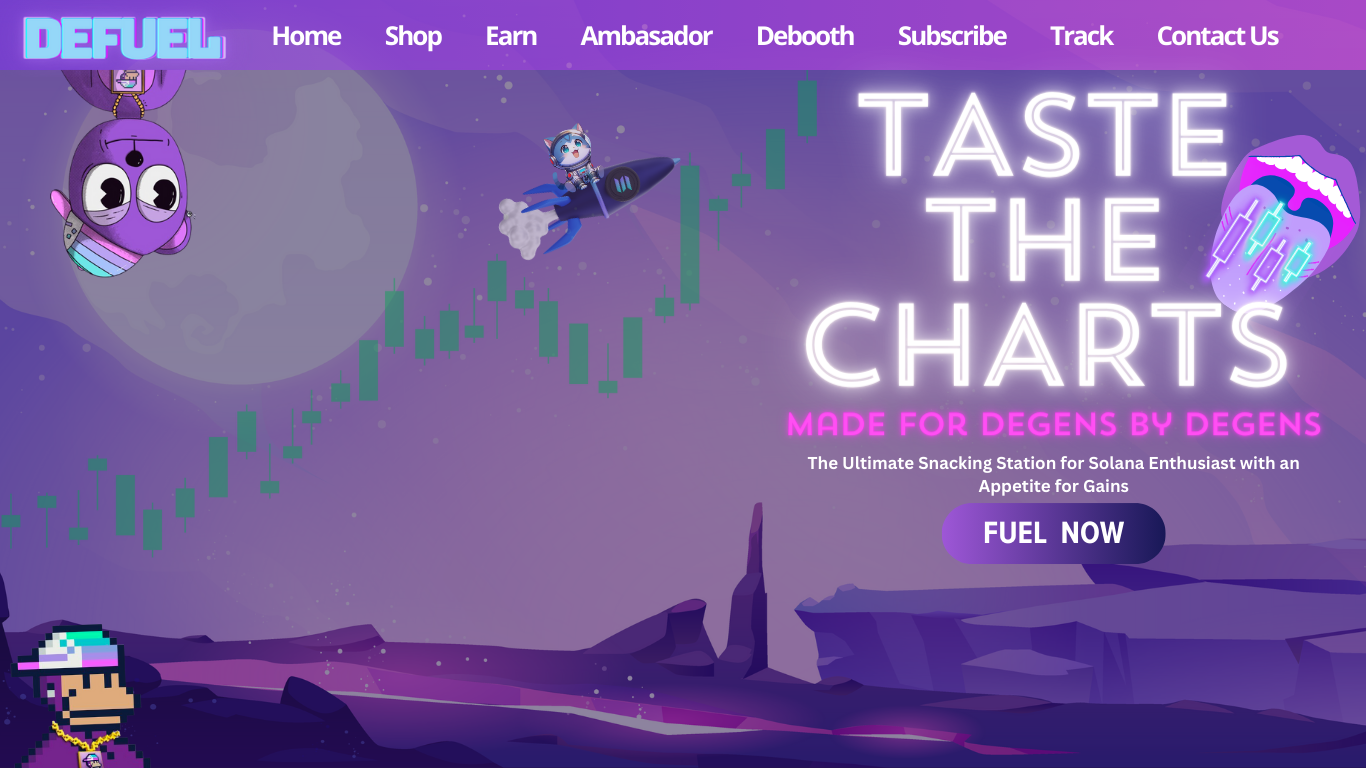
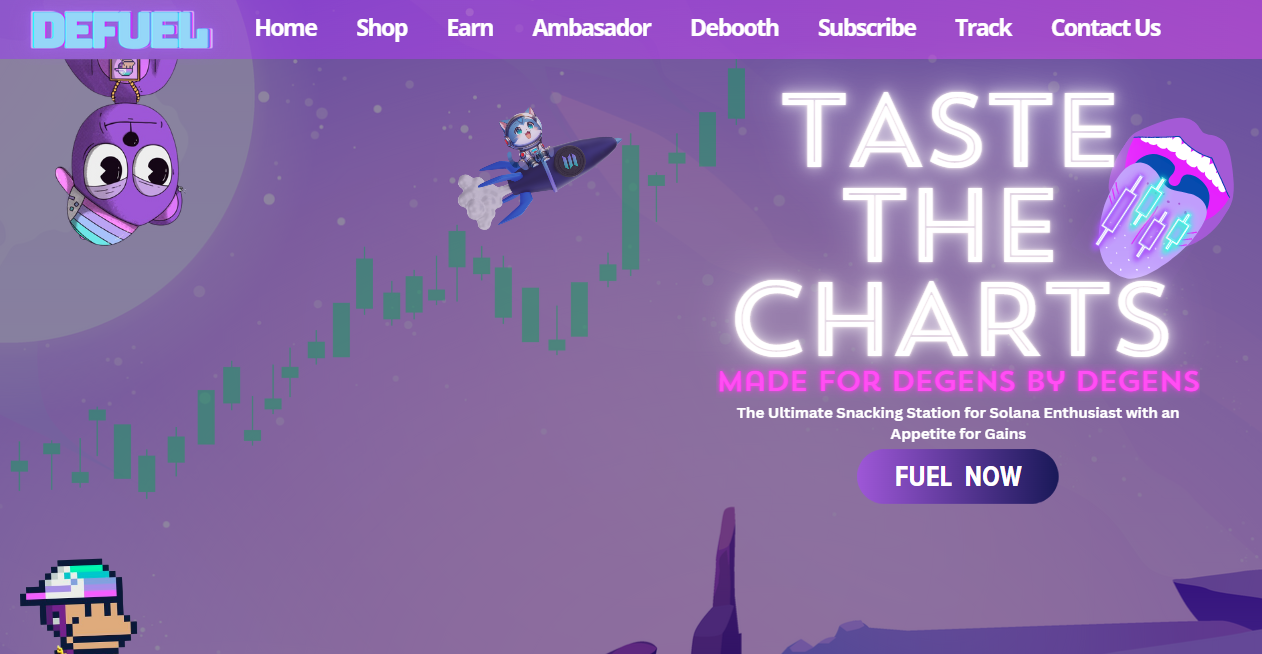
Update

diff --git a/src/app/components/Roadmap/Product.js b/src/app/components/Roadmap/Product.js
@@ -2,6 +2,7 @@ import React from 'react';
 import Image from 'next/image';
 import styles from './product.module.css'
 const Product = ({
+                     ctaText,
   mainImagePath,
   mainImageAlt,
   description,
@@ -11,18 +12,15 @@ const Product = ({
   return (
     <div
       style={{
-        border: '1px solid white',
-        padding: '20px',
         display: 'flex',
         flexDirection: 'column',
         alignItems: 'center',
         width: '100%', // Adjusted for a wider div
         height: 'max-content',
-        backgroundColor: '#001300', // A darker background for modern aesthetic
         color: 'white', // Text color set to white
         boxShadow: '0 4px 8px rgba(0, 0, 0, 0.1)', // Soft shadow for depth
         borderRadius: '10px', // Rounded corners
-        margin: '20px', // Some margin for spacing around the component
+
       }}
     >
       {/* Row 1 */}
@@ -32,25 +30,24 @@ const Product = ({
           flexDirection: 'column', // Stack items vertically
           width: '100%', // Take full width of the parent div
           alignItems: 'center', // Center items horizontally
-          marginBottom: '20px',
         }}
       >
-        <div style={{ marginBottom: '20px' }}>
-          <Image
-            src={mainImagePath}
-            alt={mainImageAlt}
-            width={400}
-            height={400}
-            style={{
-              width: '100%', // Adjusted for space around line
-              // textAlign: 'left', // Text aligned to the left
-              // marginTop: '-80px', 
-              // marginBottom: '-90px', 
-            }}
-            className={styles.mainImagePath}
-            layout='responsive' // Makes the image responsive
-          />
-        </div>
+          {/*<div style={{marginBottom: '20px'}}>
+              <Image
+                  src={mainImagePath}
+                  alt={mainImageAlt}
+                  width={100}
+                  height={100}
+                  style={{
+
+                      // textAlign: 'left', // Text aligned to the left
+                      // marginTop: '-80px',
+                      // marginBottom: '-90px',
+                  }}
+                  className={styles.mainImagePath}
+                  layout='responsive' // Makes the image responsive
+              />
+          </div>*/}
         <div
           style={{
             width: '100%', // Adjusted for space around line
@@ -58,7 +55,7 @@ const Product = ({
             // marginTop: '-70px',
           }}
         >
-          <p className={styles.desc}>{description}</p>
+            {/*<p className={styles.desc}>{description}</p>*/}
         </div>
       </div>
 
@@ -68,7 +65,7 @@ const Product = ({
 
           width: "100%", // Take full width of the parent div
           textAlign: "center", // Centering text or contents
-            border:"6px solid #fff"
+            border:"6px solid #2bea2a"
         }}
       >
         <Image
@@ -79,6 +76,10 @@ const Product = ({
           layout='responsive'
         />
       </div>
+
+        <div className={styles.cta}>
+            <p style={{color:"#000", fontWeight:"bold"}}>{ctaText}</p>
+        </div>
     </div>
   );
 };

diff --git a/src/app/sections/Carousel.js b/src/app/sections/Carousel.js
@@ -46,34 +46,35 @@ const Carousel = () => {
     return (
         <div style={{
             width: "100%",
-            padding: "20px 20%",
-            marginTop: 10,
+            padding: "10px 19%",
             display: "flex",
             flexDirection: "column",
             alignItems: "center", // Aligns everything centrally
             position: "relative" // Set relative positioning for absolute child elements
         }} >
 
-            <div style={{marginTop: 20, width: '100%', overflow: 'hidden'}}>
+            <div style={{marginTop: 0, width: '100%', overflow: 'hidden'}}>
+                {renderDots()}
                 <div style={{
                     display: 'flex',
                     width: '300%', // Combined width of all three slides
+                    marginTop:14,
                     transition: 'transform 0.5s ease-in-out',
                     transform: `translateX(-${activeIndex * (100 / 3)}%)` // Correctly calculate the shift
                 }}>
                     <div style={slideStyles()}>
-                        <Product mainImagePath={"/nileLogo.png"} secondaryImagePath={"/nileBanner.png"} description={"Everything on Web 3 is Bigger & Better right? So will the Amazon of Web 3 Be! The Go-To Marketplace for Physical Products Purchasable with Solana Exclusively. "}/>
+                        <Product ctaText={"Make your Store"} mainImagePath={"/nileLogo.png"} secondaryImagePath={"/nileBanner.png"} description={"Everything on Web 3 is Bigger & Better right? So will the Amazon of Web 3 Be! The Go-To Marketplace for Physical Products Purchasable with Solana Exclusively. "}/>
                     </div>
                     <div style={slideStyles()}>
-                        <Product mainImagePath={"/DefuelLogo.png"} secondaryImagePath={"/DefuelBanner.png"} description={"Made for degens by degens. The ultimate snacking stationfor solana enthusiasts with an appetite for gains"}/>
+                        <Product ctaText={"Make your Store"}  mainImagePath={"/DefuelLogo.png"} secondaryImagePath={"/DefuelBanner.png"} description={"Made for degens by degens. The ultimate snacking stationfor solana enthusiasts with an appetite for gains"}/>
                     </div>
                     <div style={slideStyles()}>
-                        <Product mainImagePath={"/DestorezLogo.png"} secondaryImagePath={"/DestorezBanner.png"} description={"Monetize your Audience with Solana & Native token payments, Detailed customization, and Hassle-free fulfillment, Focus on Creating while we Handle the Rest. "}/>
+                        <Product ctaText={"Make your Store"}   mainImagePath={"/DestorezLogo.png"} secondaryImagePath={"/DestorezBanner.png"} description={"Monetize your Audience with Solana & Native token payments, Detailed customization, and Hassle-free fulfillment, Focus on Creating while we Handle the Rest. "}/>
                     </div>
                 </div>
             </div>
 
-            {renderDots()}
+
 
             <Image
                 src="/arrowLeft.png"

diff --git a/src/app/components/Roadmap/product.module.css b/src/app/components/Roadmap/product.module.css
@@ -5,9 +5,30 @@
 }
 .mainImagePath{
   /* width:100%; */
-width:400px;
-height:400px;
+width:300px;
+height:300px;
 
+}
+
+.cta {
+  cursor: pointer;
+  display: flex;
+  justify-content: center;
+  align-items: center;
+  width: 100%;
+  height: 40px;
+  margin-top: 10px;
+  background-color: #2be82b;
+  border: 2px solid transparent; /* Adds a border that can change color on hover */
+  transition: background-color 0.3s ease, transform 0.3s ease, box-shadow 0.3s ease; /* Smooth transition for hover effects */
+}
+
+.cta:hover {
+  background-color: #fff; /* Change to your preferred highlight color */
+  color: white; /* Change text color to contrast the background on hover */
+  transform: scale(1.05); /* Slightly enlarge the button on hover */
+  box-shadow: 0 4px 8px rgba(0, 0, 0, 0.1); /* Add a subtle shadow for depth */
+  border-color: #2be82b; /* Optional: change border color on hover */
 }
 @media screen and (max-width: 768px) {
 

diff --git a/src/app/sections/Products.js b/src/app/sections/Products.js
@@ -47,7 +47,7 @@ const Products = () => {
                     priority
                 />
                 <p className={styles.heading}>REVENUE GENERATING PRODUCTS</p>
-                <p className={styles.subHeading}>We Created The 1st Sustainable NFT Project.</p>
+                <p className={styles.subHeading}>Peep through the window   &#x1F440; </p>
 
             </div>
 

diff --git a/src/app/sections/Header.module.css b/src/app/sections/Header.module.css
@@ -38,7 +38,7 @@
   display: block;
   padding: 0.5rem 1rem;
   font-size: 0.833vw;
-  font-weight: bold;
+  font-weight: normal;
   position: relative;
   text-decoration: none;
   color: #fff;

diff --git a/src/app/sections/Products.module.css b/src/app/sections/Products.module.css
@@ -21,7 +21,7 @@
   align-items: center;
   justify-content: center;
   flex-direction: column;
-  margin-bottom: 30px;
+  margin-bottom: 0px;
 }
 
 .heading {
